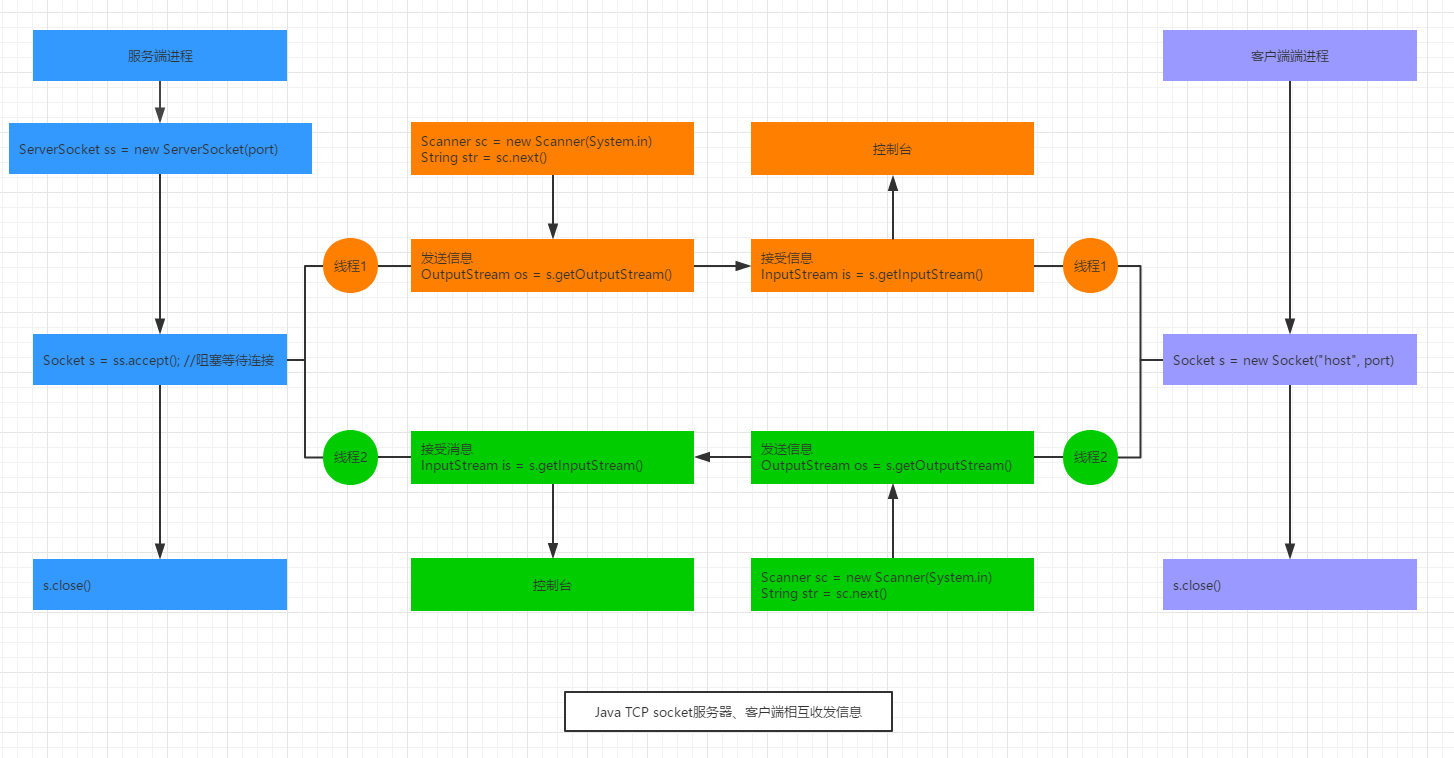
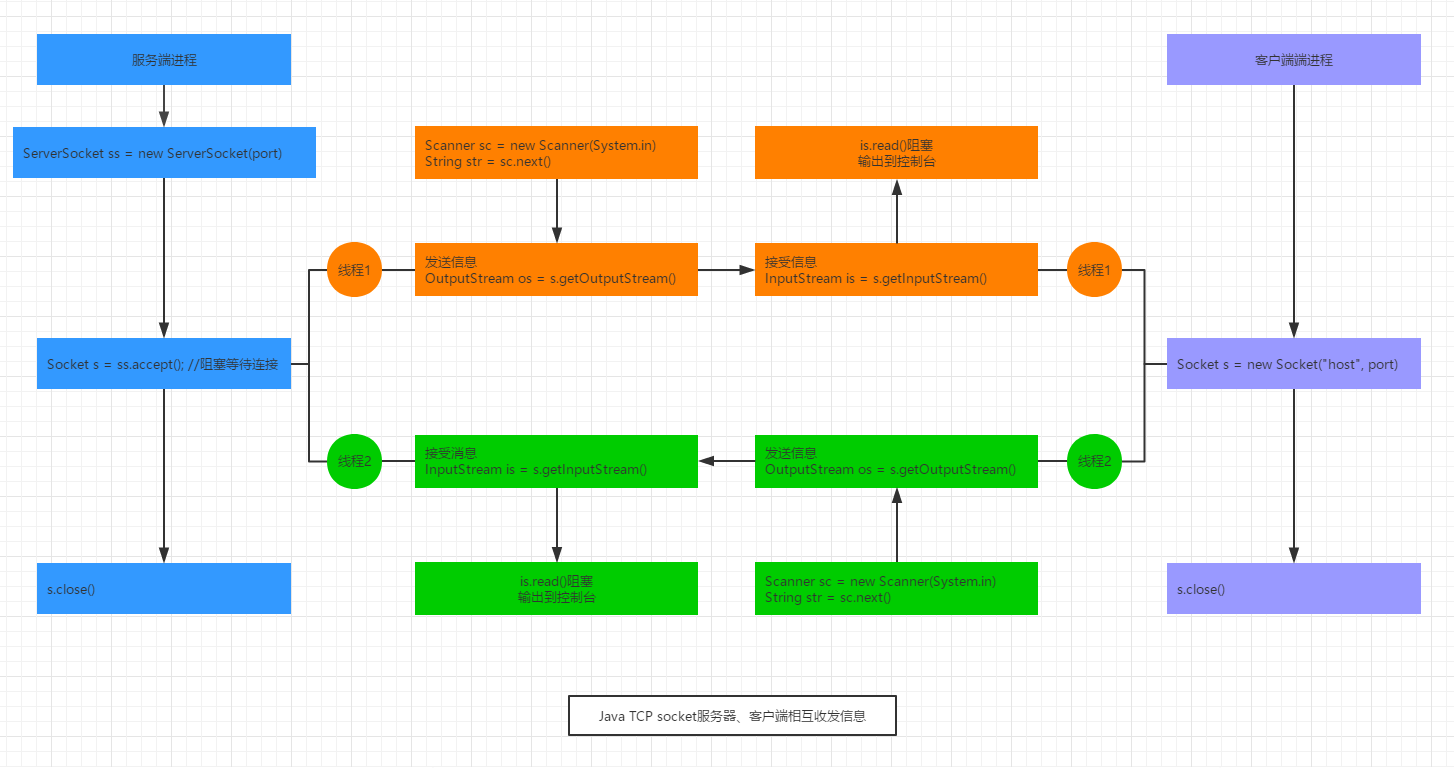
update day20/README.md, add ServerSocket, Socket

diff --git a/day20/README.md b/day20/README.md
@@ -1,10 +1,3 @@
----
-layout: page
-title: "TUNA NTP (网络授时) 服务使用说明"
-author: Jason Lau
-permalink: /help/ntp/
----
-
 day20_网络编程
 ==
 
@@ -120,14 +113,206 @@ static InetAddress getLoopbackAddress()
 实际上是一组协议，包括多个具有不同功能且互为关联的协议。  
 
 * IP(Internet Protocol)协议是网络层的主要协议，支持网间互连的数据通信
-* 
+* TCP/IP协议模型从更使用的角度出发，形成了高效地四层体系，  
+即 物理链路层、IP层(网络层)、传输层、应用层
+
+## TCP和UDP
+* TCP协议
+    * 使用TCP协议签，必须建立TCP连接，形成传输的通道
+    * 传输前，采用"三次握手"方式，是可靠的
+    * TCP协议进行通信的两个应用进程：服务端、客户端，先启动服务端
+    * 在已经建立了连接的连接中可进行大数据的传输
+    * 传输完毕，采用"四次挥手"方式释放已建立的连接，效率低
+* UDP协议
+    * 将数据、源地址、目的地址封装成数据报，不需要建立连接
+    * 每个数据报的大小限制在64K内
+    * 因无需连接，故是不可靠的
+    * 发送数据结束时无需释放资源，速度快
 
 
+# Socket
+* 利用套接字(Socket)开发网络应用程序早已被广泛的采用，以至于成为事实上的标准
+* 通信的两端都要有Socket，是两台机器间通信的端点
+* 网络通信其实就是Socket间的通信
+* Socket允许程序把网络连接当成一个流，数据在两个Socket间通过IO传输
+* 一般主动发起通信的应用程序属客户端，等待通信请求的为服务端
+个人觉得Socket翻译成链流口更合适
+
+基于TCP的socket通信  
+![](./images/JavaTCPsocket服务器、客户端相互收发信息.png)  
+
+
+# Socket类
+## 构造器
+```text
+
+public Socket() 创建一个未绑定IP、端口等的Socket对象
+public Socket(InetAddress address, int port) throws IOException 创建一个流Socket对象(即TCP socket)，并绑定IP、端口
+public Socket(String host, int port) throws UnknownHostException, IOException 创建一个流Socket对象(即TCP socket)，并绑定IP、端口
+public Socket(InetAddress address, int port, InetAddress localAddr, int localPort) throws IOException 创建一个Socket对象，指定连接远端的IP和端口，同时绑定本地的IP和端口
+public Socket(String host, int port, InetAddress localAddr, int localPort) throws IOException 创建一个Socket对象，指定连接远端的IP和端口，同时绑定本地的IP和端口
+
+public Socket(InetAddress host, int port, boolean stream) throws IOException // Deprecated. 创建一个绑定了IP和端口的流Socket对象(TCP)或数据报Socket对象(UDP)，stream为true时创建流Socket对象，stream为false时创建数据报Socket
+public Socket(String host, int port, boolean stream) throws IOException // Deprecated. 创建一个绑定了IP和端口的流Socket对象(TCP)或数据报Socket对象(UDP)，stream为true时创建流Socket对象，stream为false时创建数据报Socket
+
+public Socket(Proxy proxy) 创建一个未连接的代理Socket，使用代理的设置，如调用代理的IP、端口，
+    示例：
+    Socket s = new Socket(Proxy.NO_PROXY);  will create a plain socket ignoring any other proxy configuration.
+    Socket s = new Socket(new Proxy(Proxy.Type.SOCKS, new InetSocketAddress("socks.mydom.com", 1080))); will create a socket connecting through the specified SOCKS proxy server.
+
+protected Socket(SocketImpl impl) throws SocketException 创建一个由用户实现的SocketImpl且未连接的Socket对象。
+
+```
+
+## 方法
+```text
+void bind(SocketAddress bindpoint) 绑定SocketAddress，即IP和端口
+void close() 关闭此socket
+void connect(SocketAddress endpoint) 连接此socket到服务器
+void connect(SocketAddress endpoint, int timeout) 连接此socket到服务器，并指定连接超时时间
+SocketChannel getChannel() 返回唯一的SocketChannel 对象，如果存在的话
+InetAddress	getInetAddress() 返回此socket连接到远端的IP
+InputStream	getInputStream() 获取此socket的InputStream输入流，此InputStream.read()、InputStream.read(byte[] b) 都是是阻塞的
+boolean	getKeepAlive() 测试SO_KEEPALIVE 是否开启，返回此socket是否开启回话保持
+InetAddress	getLocalAddress() 获取此socket绑定的本地IP
+int	getLocalPort() 获取此socket绑定的本地端口
+SocketAddress getLocalSocketAddress() 获取此socket绑定的本地SocketAddress信息，即绑定的本地IP、本地端口
+boolean	getOOBInline() 获取此socket的SO_OOBINLINE是否开启
+OutputStream getOutputStream() 获取此socket的OutputStream输出流，此OutputStream.write(byte[] b) 非阻塞的
+int	getPort() 返回此socket连接的远端端口
+int	getReceiveBufferSize() 获取此socket的SO_RCVBUF值
+SocketAddress getRemoteSocketAddress() 返回此socket连接着远端的SocketAddress信息(IP、port)
+boolean	getReuseAddress() 获取SO_REUSEADDR是否可重用
+int	getSendBufferSize() 获取此socket的SO_SNDBUF返送缓冲大小
+int	getSoLinger() 获取 SO_LINGER值
+int	getSoTimeout() 获取此socket的SO_TIMEOUT设置的值
+boolean	getTcpNoDelay() 获取此socket的TCP_NODELAY是否开启，关闭Nagle算法，即要发送到网络的数据不缓冲
+int	getTrafficClass() 从发送的IP头包里获取traffic跟踪类或服务类型
+boolean	isBound() 返回此socket是绑定状态
+boolean	isClosed() 返回此socket是关闭状态
+boolean	isConnected() 返回此socket是连接状态
+boolean	isInputShutdown()  在此socket输入流读取过程中，返回此socket连接是否为是关闭状态，是关闭则返回true
+boolean	isOutputShutdown()  在此socket输出流读取过程中，返回此socket连接是否为是关闭状态，是关闭则返回true
+void sendUrgentData(int data) 发送一个字节的紧急数据到此socket
+void setKeepAlive(boolean on) 设置此suocket的SO_KEEPALIVE值，即socket TCP的超时时间
+void setOOBInline(boolean on)
+void setPerformancePreferences(int connectionTime, int latency, int bandwidth) 设置此Socket性能偏好：
+                connectionTime：连接保持时间，对于短链接来说此参数相对重要
+                latency：延迟时间，对于要求低延迟的连接，此参数相对重要
+                bandwidth：带宽，如要求带宽比较高的，此参数比较重要
+void setReceiveBufferSize(int size) 设置此socket的SO_RCVBUF值
+void setReuseAddress(boolean on) 设置address是否可重用
+void setSendBufferSize(int size) 设置SO_SNDBUF值
+static void	setSocketImplFactory(SocketImplFactory fac)
+void setSoLinger(boolean on, int linger) 开启/关闭 SO_LINGER，指定linger时间为linger，单位s
+void setSoTimeout(int timeout) 设置此socket超时时间(单位ms)，以timeout为0时无限超时，read()将一直阻塞，如果timeout > 0,在read()时做多阻塞timeout 毫秒，超时后抛出java.net.SocketTimeoutException异常
+void setTcpNoDelay(boolean on) 设置此socket的TCP_NODELAY 值
+void setTrafficClass(int tc)
+void shutdownInput() 关闭此socket的InputStream流，在read socket InputStream时，调用此方法后，InputStream的read()方法返回-1，其他可用方法都将返回0，不可恢复
+void shutdownOutput() 关闭此socket的OutputStream流。对于TCP，调用此方法前需要发送的数据还未完成发送的将继续正常的连接终止顺序发送，不可恢复
+String toString() //"Socket[addr=" + getImpl().getInetAddress() +
+                    ",port=" + getImpl().getPort() +
+                    ",localport=" + getImpl().getLocalPort() + "]";
+                    
+```
+
+## 注意
+* 调用socket.close() 或者socket.shutdownOutput()方法，都会结束客户端socket，且不可恢复。
+* socket.close() 将socket关闭连接，那边如果有服务端给客户端反馈信息，此时客户端是收不到的。
+* socket.shutdownOutput() 是将输出流关闭，此时，如果服务端有信息返回，则客户端是可以正常接受的
+* inputStream.readAllBytes()，只有等对端的socket关闭了，才能读取完成，是阻塞的
+
+
+# ServerSocket类
+## 构造器(没有特殊说明时，都是public构造器)
+```text
+ServerSocket() 创建未绑定IP、端口等的ServerSocket对象
+ServerSocket(int port) 创建服务器端的ServerSocket对象，指定要绑定的监听端口，绑定所有IP(即0.0.0.0)，端口范围：[0, 65535]，0：自动分配端口，下同; 请求连接队列的最大长度为50
+ServerSocket(int port, int backlog) 建服务器端的ServerSocket对象，指定要绑定的监听端口，绑定所有IP(即0.0.0.0)，指定请求连接队列的最大长度
+ServerSocket(int port, int backlog, InetAddress bindAddr) 建服务器端的ServerSocket对象，指定要绑定的监听端口，指定请求连接队列的最大长度，指定绑定的IP(InetAddress对象)
+```
+
+## 方法(没有特殊说明，都是public方法)
+```text
+
+Socket accept() 创建并返回一个Socket对象，开始侦听该socket并接收请求连接，阻塞的，直到有请求连接进来
+void bind(SocketAddress endpoint)  绑定SocketAddress，即绑定IP和端口，如 ServerSocket对象.bind(new InetSocketAddress(InetAddress.getByName("hostName")), 端口)
+void bind(SocketAddress endpoint, int backlog)  绑定SocketAddress，并指定请求连接队列的最大长度
+void close() 关闭此socket
+ServerSocketChannel getChannel() 返回此ServerSocket对象相关的唯一的ServerSocketChannel 对象
+InetAddress	getInetAddress() 获取此socket的IP信息
+int	getLocalPort() 获取侦听的端口
+SocketAddress getLocalSocketAddress() 获取绑定的IP信息
+int	getReceiveBufferSize()
+boolean	getReuseAddress() 获取请求客户端的address信息
+int	getSoTimeout() 获取socket 超时设置值
+protected void implAccept(Socket s) 重写accept()方法
+boolean isBound() 返回ServerSocket是否已经绑定
+oolean isClosed() 返回ServerSocket是否已关闭
+void setPerformancePreferences(int connectionTime, int latency, int bandwidth) 设置此ServerSocket性能偏好：
+                connectionTime：连接保持时间，对于短链接来说此参数相对重要
+                latency：延迟时间，对于要求低延迟的连接，此参数相对重要
+                bandwidth：带宽，如要求带宽比较高的，此参数比较重要
+void setReceiveBufferSize(int size)  重置socket接收缓存的大小，默认的大小将被修改
+void setReuseAddress(boolean on) 开启/关闭 SO_REUSEADDR socket 选项，当需要使用多进程时，需要开启address重用
+static void	setSocketFactory(SocketImplFactory fac)
+void setSoTimeout(int timeout) 设置socket的超时时间，单位ms，0：表示不超时
+String toString()
+
+```
+
+# 基于Socket的TCP编程
+* 客户端Socket的工作过程包含以下四个基本的步骤
+    * 创建 Socket
+    ```text
+    根据指定服务端的 IP 地址或端口号构造 Socket 类对象。
+    若服务器端响应，则建立客户端到服务器的通信线路。
+    若连接失败，会出现异常
+    ```
+    * 打开连接到 Socket 的输入流/输出流
+    ```text
+    使用 getInputStream()方法获得输入流，其read()会阻塞
+    使用 getOutputStream()方法获得输出流，进行数据传输
+    ```
+    * 按照一定的协议对 Socket 进行读/写操作
+    ```text
+    通过输入流读取服务器放入线路的信息（但不能读取自己放入线路的信息），
+    通过输出流将信息写入线程
+    ```
+    * 关闭socket
+    ```text
+    断开客户端到服务器的连接，释放链路
+    ```
+    示例  
+    [TCPSocketTest1 client](./src/com/java/www/TCPSocketTest1.java)
     
+* 服务端TCP socket编程
+    * 调用 ServerSocket(int port)
+    ```text
+    创建一个服务器端套接字，并绑定到指定端口上。用于监听客户端的请求
+    ```
+    * 调用 accept()
+    ```text
+    监听连接请求，如果客户端请求连接，则接受连接，返回通信套接字对象。
+    这里会发生阻塞，知道有请求连接进来
+    ```
+    * 调用 该Socket类对象的 getOutputStream() 和 getInputStream()
+    InputStream.read(byte[] b)方法也会发生阻塞，等待读取内容，需要自行判断结束
+    ```text
+    获取输出流和输入流，开始网络数据的发送和接收
+    ```
+    * 关闭ServerSocket和Socket对象
+    ```text
+    客户端访问结束，关闭通信套接字
+    ```
+    示例  
+    [TCPSocketTest1 server](./src/com/java/www/TCPSocketTest1.java)  
+
+
 
 # 其他
 ## java lambda表达式
-符号：() -> {}
+符号：() -> { }
 即一个匿名类的匿名方法
 
 ```text
